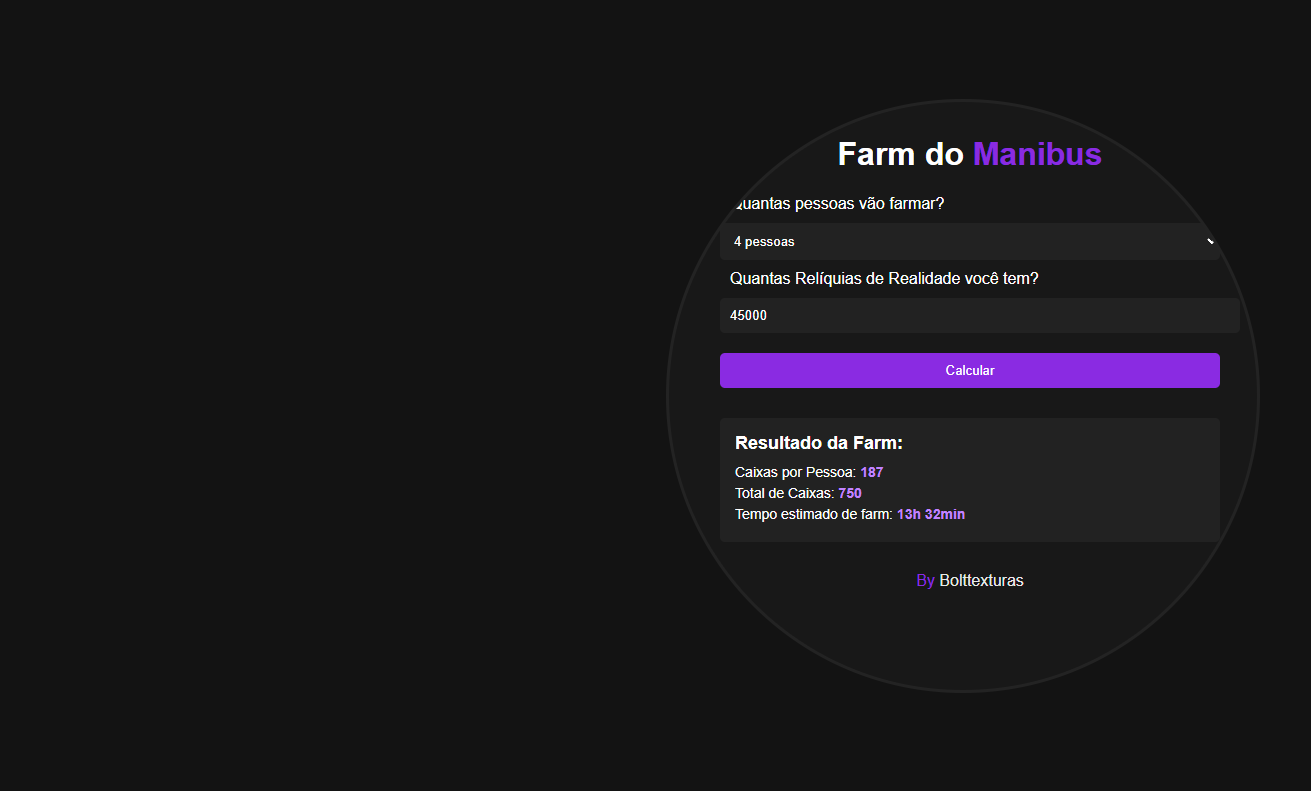
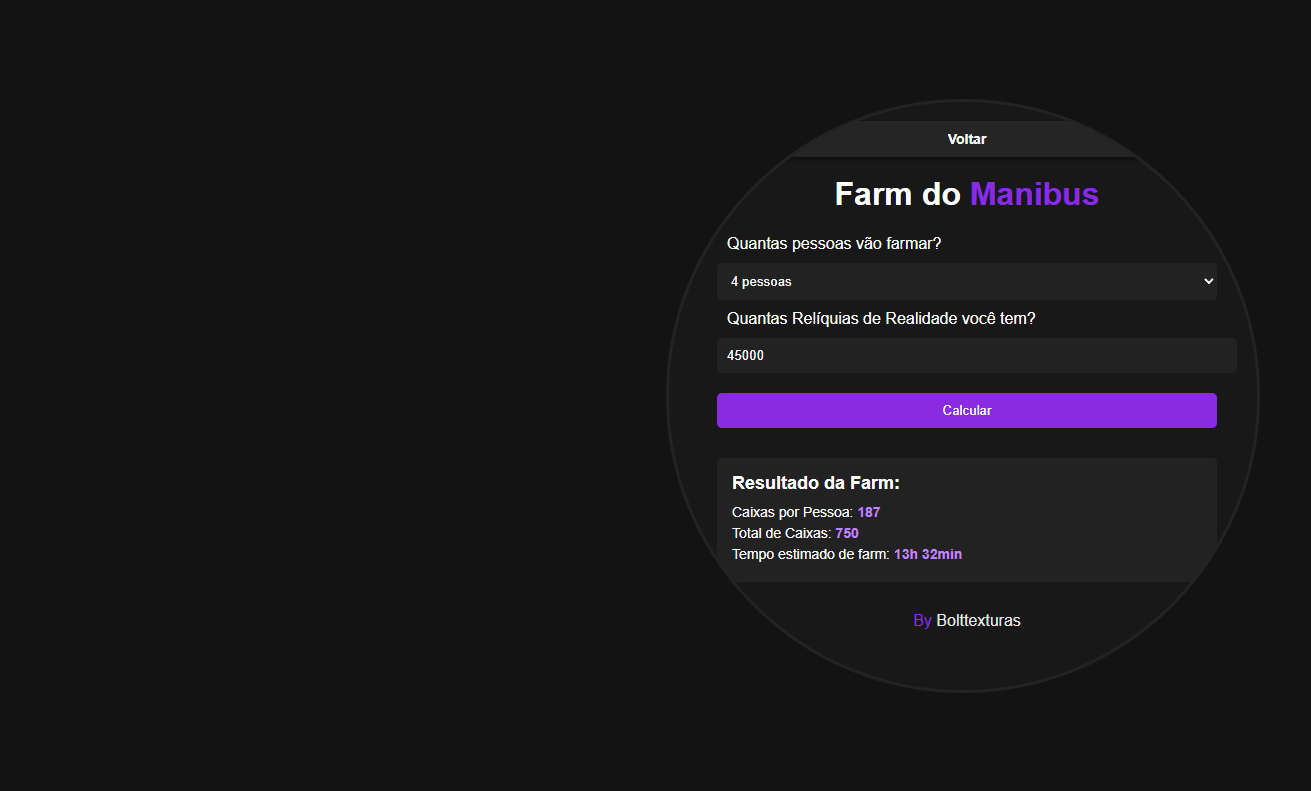
att

Changed region(s): [[0.5492, 0.3944, 0.9458, 0.7889], [0.5492, 0.1517, 0.8543, 0.2731], [0.5492, 0.3034, 0.7933, 0.3641]]

diff --git a/manibus.html b/manibus.html
@@ -71,10 +71,26 @@
     .by {
       color: #8A2BE2;
     }
+    .back-btn {
+      background-color: #252525;
+      color: #ffffff;
+      border: none;
+      border-radius: 5px;
+      padding: 10px 20px;
+      font-size: 14px;
+      font-weight: bold;
+      cursor: pointer;
+      box-shadow: 0 2px 5px rgba(0, 0, 0, 0.5);
+      margin-bottom: -2px;
+    }
+    .back-btn:hover {
+      background-color: #8A2BE2;
+    }
   </style>
 </head>
 <body>
 
+  <button class="back-btn" onclick="window.location.href='/'">Voltar</button>
   <h1><span style="color: #ffffff;">Farm do</span> <span style="color: #8A2BE2;">Manibus</span></h1>
 
   <label for="pessoas">Quantas pessoas vão farmar?</label>
